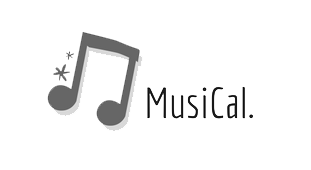
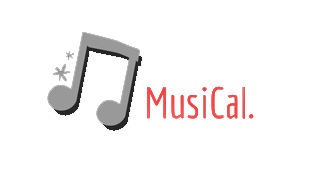
finalized index.html

Changed region(s): [[0.1447, 0.1765, 0.463, 0.7647], [0.463, 0.5, 0.8103, 0.7059]]

diff --git a/css/styles.css b/css/styles.css
@@ -57,6 +57,10 @@ textarea {
 body{
     font-family:Helvetica;
 }
+span{
+    font-family: 'Cormorant Garamond', serif;
+    color:#FC4242;
+}
 div.parallax{
     width:100%;
     height:100%;
@@ -76,11 +80,10 @@ div#number2{
     background-attachment: fixed;
     background-position: center;
 }
-a.logo {
-    width:259px;
-    height:102px;
+a.logo img{
+    width:200px;
+    height:100px;
     margin:25px 0 0 28px;
-    background-color:#FFFFFF;
     float:left;
 }
 a#login{
